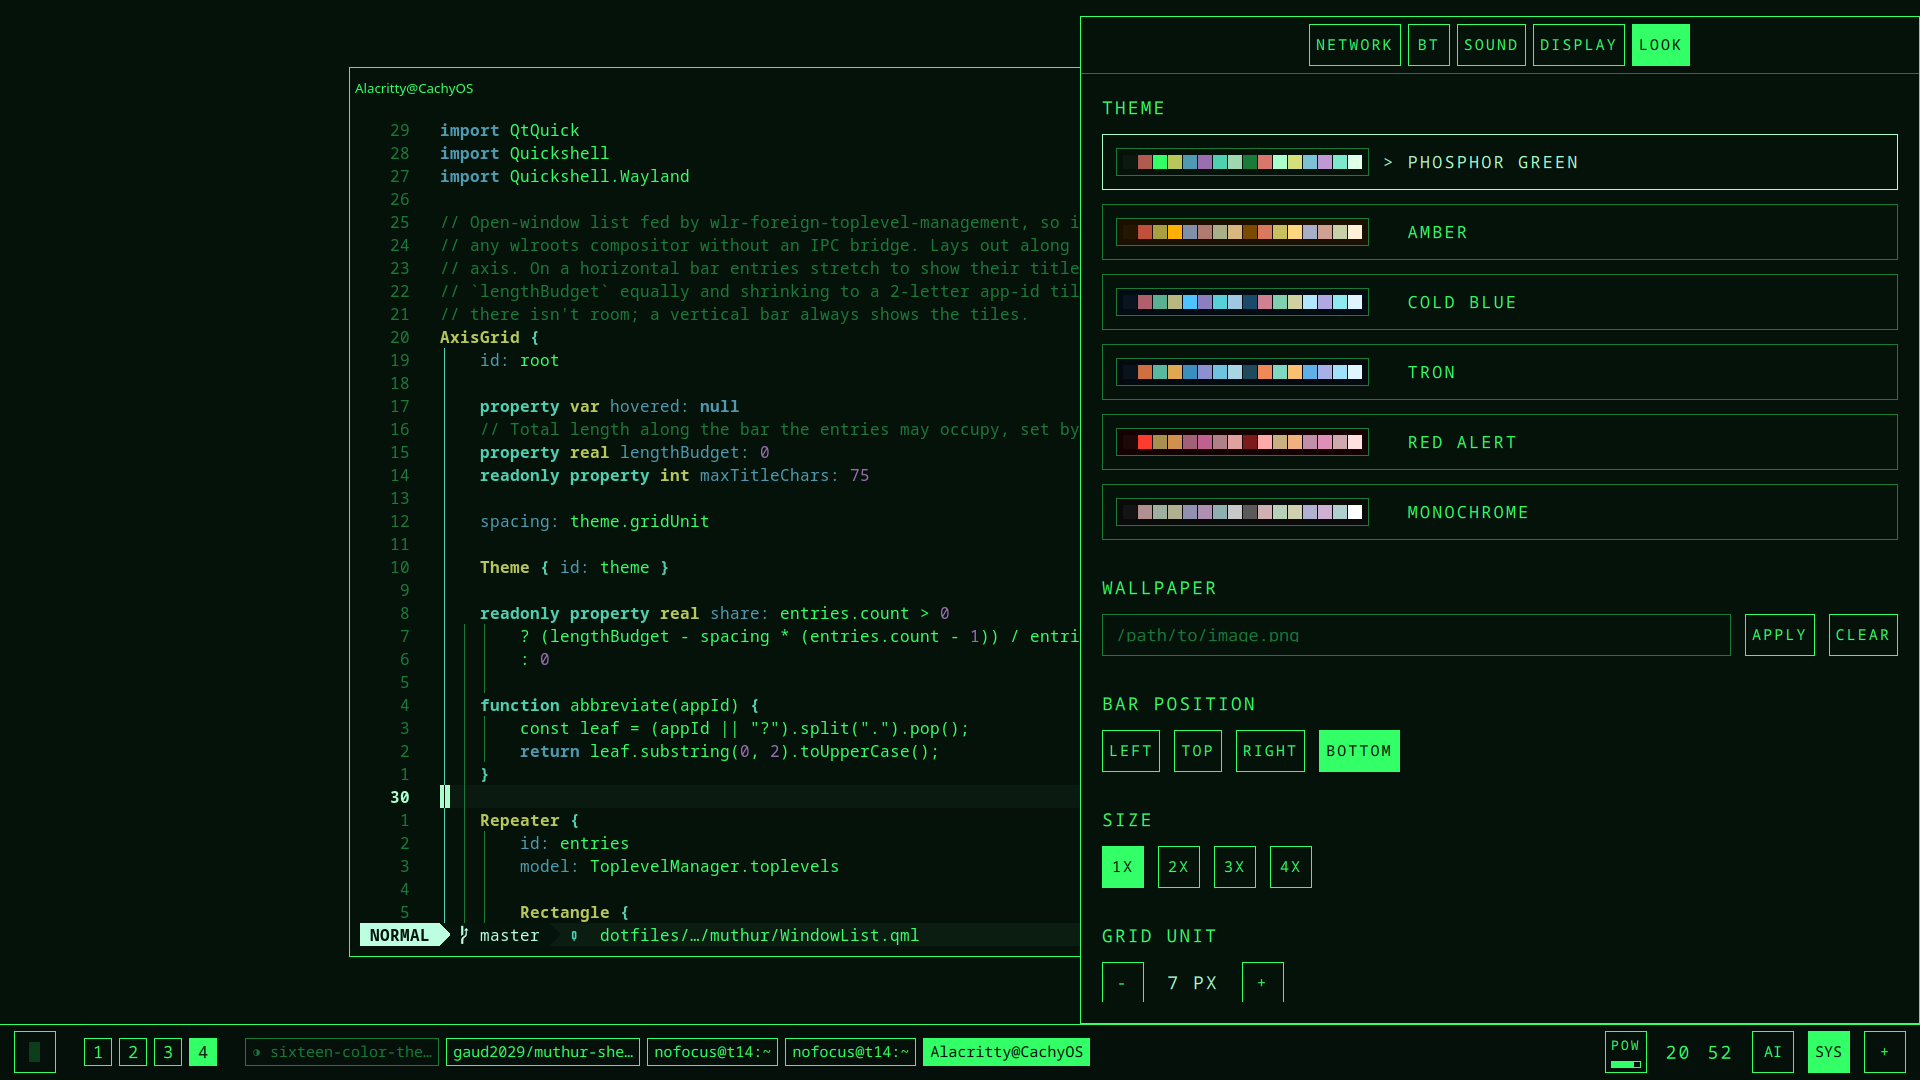
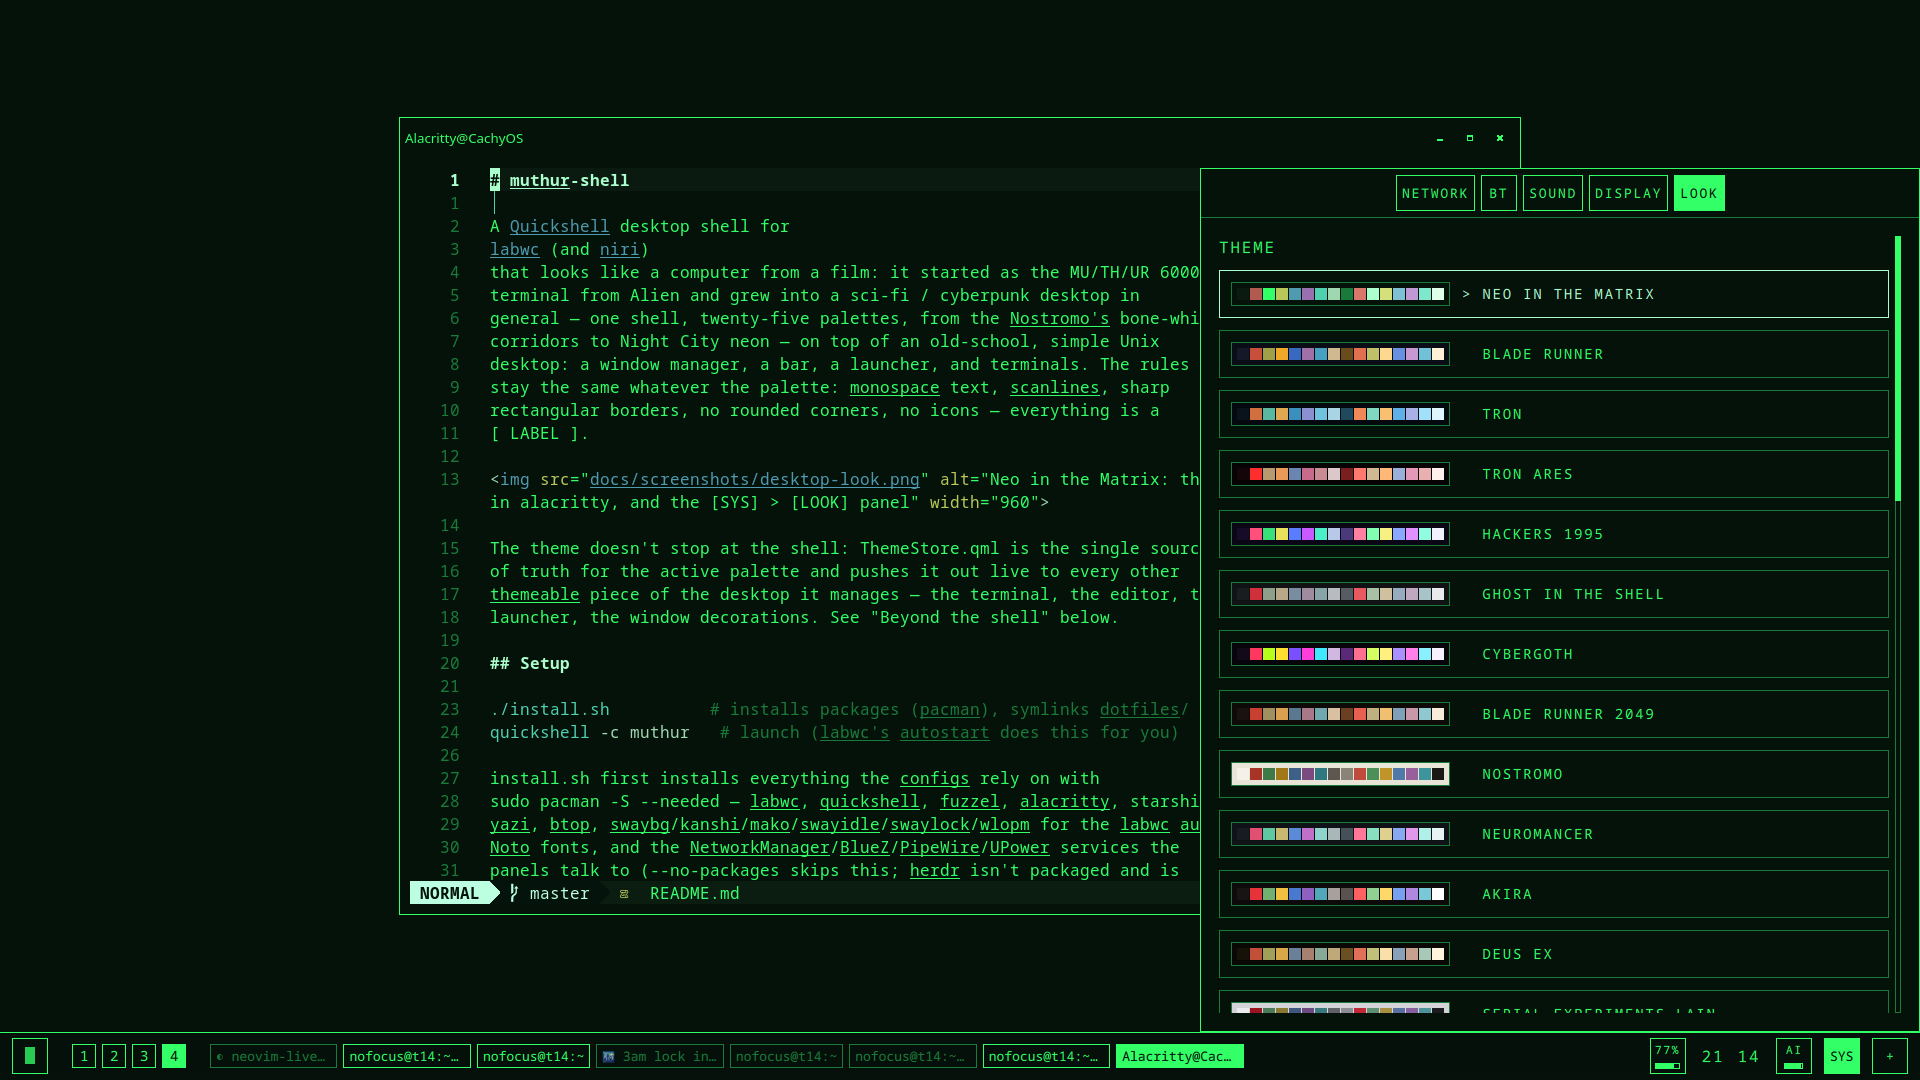
Retake the README screenshots, caption each with its preset
The old captures predated the Neovim live reload. New ones: Neo in the
Matrix with the [LOOK] panel, Blade Runner with btop and [POW], Tron with
the [AI] panel, Monochrome over a wallpaper at 90% terminal opacity with
Neovim and yazi showing it through, and the palette generated from an
Akira wallpaper with fastfetch at 94%. Every image now carries a caption
naming the preset it shows.

diff --git a/README.md b/README.md
@@ -11,7 +11,9 @@ stay the same whatever the palette: monospace text, scanlines, sharp
 rectangular borders, no rounded corners, no icons — everything is a
 `[ LABEL ]`.
 
-<img src="docs/screenshots/desktop-look.png" alt="Neo in the Matrix: the bar along the bottom, Neovim in alacritty, and the [SYS] > [LOOK] panel" width="960">
+<img src="docs/screenshots/desktop-look.png" alt="Neo in the Matrix preset: the bar along the bottom, Neovim in alacritty, and the [SYS] > [LOOK] panel" width="960">
+
+*Preset: **Neo in the Matrix** — Neovim in alacritty, and `[SYS] > [LOOK]` open on the preset list.*
 
 The theme doesn't stop at the shell: `ThemeStore.qml` is the single source
 of truth for the active palette and pushes it out live to every other
@@ -83,6 +85,10 @@ From the end of the bar:
   on a second within four seconds, so a stray click can't put the session
   down.
 
+<img src="docs/screenshots/desktop-blade-runner.png" alt="Blade Runner preset with btop in alacritty and the [POW] battery panel open" width="960">
+
+*Preset: **Blade Runner** — btop in alacritty, and the `[POW]` panel open.*
+
 Only one of the `[SYS]` / `[AI]` / clock / `[POW]` panels is open at a
 time; the drawer is independent and can sit alongside one. Every popup
 closes on <kbd>Escape</kbd>, and they overlay windows rather than
@@ -123,7 +129,13 @@ reserving space, so the tiling layout never shifts.
 
   All of it persists in `theme.ini` (gitignored) and applies immediately.
 
-<img src="docs/screenshots/desktop-wallpaper.png" alt="A theme generated from the Weyland-Yutani wallpaper, with fuzzel and the [+] drawer open" width="960">
+<img src="docs/screenshots/desktop-wallpaper.png" alt="Monochrome preset over a wallpaper at 90% terminal opacity, with Neovim, yazi and the [+] drawer open" width="960">
+
+*Preset: **Monochrome**, with a wallpaper set and **terminal opacity at 90%** — Neovim and yazi let the image show through, and the `[+]` drawer is open.*
+
+<img src="docs/screenshots/desktop-akira-wallpaper.png" alt="A palette generated from an Akira wallpaper, with fastfetch in a translucent terminal over it" width="960">
+
+*Preset: **Wallpaper** — the palette generated from an *Akira* wallpaper (Kaneda red pulled from the poster), with fastfetch in a terminal at **94% opacity** so the poster reads through it.*
 
 ## `[AI]` — Claude Code / Codex usage
 
@@ -136,7 +148,9 @@ cached input counted like the CLIs do). Each tab has a `DEFAULT` toggle:
 that agent's session bar then lives under the `[AI]` button, refreshed
 every 10 minutes in the background (every minute while its tab is open).
 
-<img src="docs/screenshots/desktop-tron.png" alt="Tron preset with the [AI] panel open" width="960">
+<img src="docs/screenshots/desktop-tron.png" alt="Tron preset with Neovim on a QML file and the [AI] panel open" width="960">
+
+*Preset: **Tron** — Neovim on a QML file, and the `[AI]` panel on the Claude Code tab.*
 
 ## Beyond the shell — theming the rest of the desktop
 
